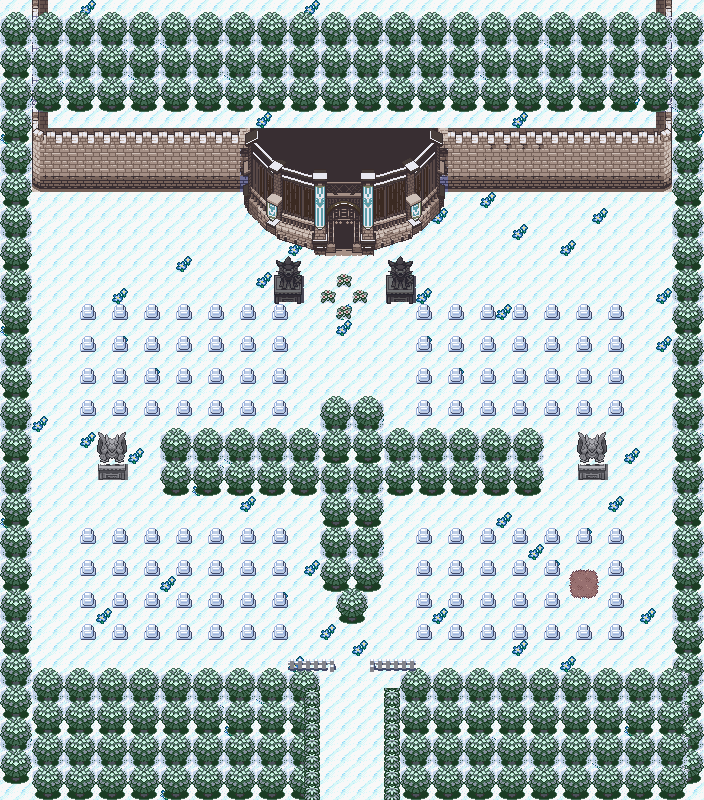
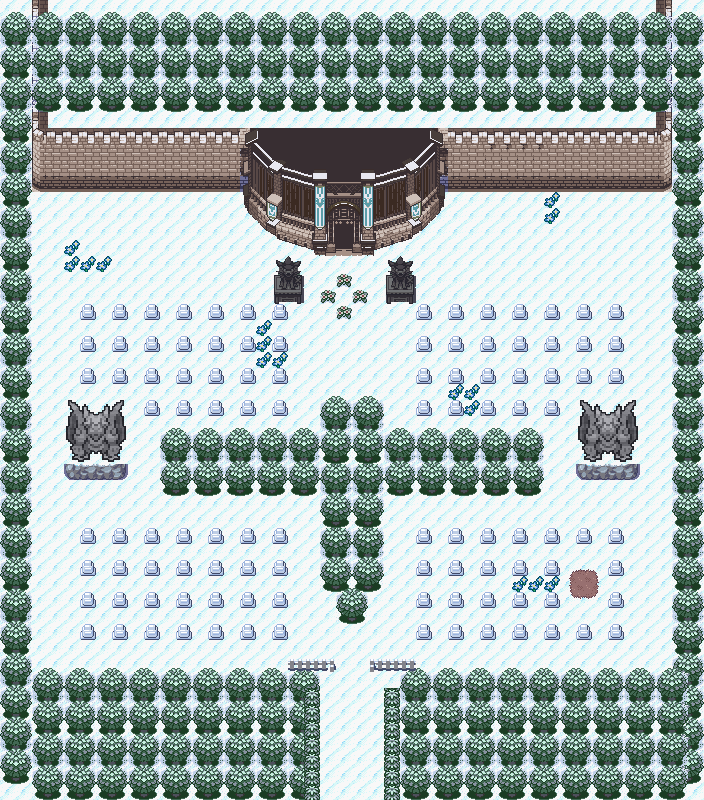
Necropolis grounds: bigger Druddighul statues on rock; flowers in clumps
The user: the flowers round the statues looked odd, distribute them naturally; no plinths, bigger statues or a natural platform. The statues at twice the size (their outline kept one pixel, the stone grain at the map's own pixel size) on a snow-capped rock outcrop; snow flowers in a few clumps well apart.

Claude-Session: https://claude.ai/code/session_01FHXnfqnedTHLf5QFbB3MCU

diff --git a/tools/art/necropolis/grounds_mock.py b/tools/art/necropolis/grounds_mock.py
@@ -83,16 +83,49 @@ def stone(img, x0=0, y0=0):
 
 def druddighul_statue(M, x0, y0):
     """A stone Druddighul (user 2026-11-21): MonoMyth's Druddighul, the decrepit dragon of the Apocryphal
-    Bastion's ruined castle (its overworld sprite, graphics 0x128, 32x32), turned to grey stone head to toe,
-    on a plinth (Crown's statue plinth, greyed). 2 x 3."""
+    Bastion's ruined castle (its overworld sprite, graphics 0x128), drawn at twice its size (user: bigger, no
+    plinth) and turned to grey stone head to toe, the stone's grain laid at the map's own pixel size so it does not
+    look blown up; it stands on a snow-capped outcrop of rock (Elderflower's rock ridge), not a plinth. 4 x 5."""
     im = np.array(Image.open(DRUDDIGHUL).convert('RGBA'))
+    im = im.repeat(2, 0).repeat(2, 1)                    # 64 x 64
     rgb, a = im[..., :3], im[..., 3] > 0
     st = stone(rgb, x0 * 16, y0 * 16)
+    # the outline (its darkest pixels on the edge of the figure) back to one pixel wide, so the doubled
+    # sprite keeps a fine line where it meets the snow
+    from scipy.ndimage import binary_erosion
+    inner = binary_erosion(a, np.ones((3, 3), bool))
+    edge = a & ~inner
+    st[edge] = (np.array([34, 34, 40]))
     blk = [[(st[dy * 16:dy * 16 + 16, dx * 16:dx * 16 + 16], a[dy * 16:dy * 16 + 16, dx * 16:dx * 16 + 16])
-            for dx in range(2)] for dy in range(2)]
-    plinth = mm.cut('c33', 22, 10, 2, 1)
-    blk.append([(stone(c[0], x0 * 16 + 16 * i, y0 * 16 + 32), c[1]) if c else None for i, c in enumerate(plinth[0])])
+            for dx in range(4)] for dy in range(4)]
     M.place(blk, x0, y0, 'statue', check=False)
+    for dx, m in enumerate((0x105, 0x106, 0x106, 0x107)):      # the outcrop it stands on
+        M.ground(x0 + dx, y0 + 4, ef(m), 'rock')
+    for dy in range(4):
+        for dx in range(4):
+            if a[dy * 16:dy * 16 + 16, dx * 16:dx * 16 + 16].any(): M.otag[y0 + dy, x0 + dx] = 'statue'
+
+def flowers(M, seed, n_clusters, avoid):
+    """Snow flowers the way they grow: a few clumps (two to five plants each, touching), in the open snow away
+    from the paths and the graves, none scattered alone."""
+    placed = 0; k = 0; seeds = []
+    free = lambda xx, yy: M.gtag[yy, xx] == 'snow' and M.otag[yy, xx] is None and (xx, yy) not in avoid
+    while placed < n_clusters and k < 2000:
+        k += 1
+        x = 3 + int(rnd(seed, 'x', k) * (W - 6)); y = 13 + int(rnd(seed, 'y', k) * (H - 20))
+        if not all(free(xx, yy) for xx, yy in ((x, y), (x + 1, y), (x - 1, y), (x, y + 1), (x, y - 1))): continue
+        if any(max(abs(x - a), abs(y - b)) < 8 for a, b in seeds): continue     # (clumps well apart)
+        seeds.append((x, y))
+        size = 2 + int(rnd(seed, 'n', k) * 4); cells = [(x, y)]
+        for j in range(12):
+            if len(cells) >= size: break
+            cx, cy = cells[int(rnd(seed, 'c', k, j) * len(cells))]
+            dx, dy = ((1, 0), (-1, 0), (0, 1), (0, -1))[int(rnd(seed, 'd', k, j) * 4)]
+            c = (cx + dx, cy + dy)
+            if c not in cells and M.gtag[c[1], c[0]] == 'snow' and M.otag[c[1], c[0]] is None and c not in avoid:
+                cells.append(c)
+        for (cx, cy) in cells: M.ground(cx, cy, ef(0xee), 'snow')
+        placed += 1
 
 def palisade(M, x0, y0):
     """The grand entrance: Crown's palisade gate (its walled capital, cells 43-55 x 5-14), charred: its timber
@@ -119,7 +152,7 @@ def palisade(M, x0, y0):
 def compose():
     M = mm.Map()
     for y in range(H):
-        for x in range(W): M.ground(x, y, v3.snow_tile(x, y), 'snow')
+        for x in range(W): M.ground(x, y, ef(0xed), 'snow')
     O = 4                                               # (everything below the fortress wall: four rows down)
     # --- the fortress wall across the top (the mountain's foot): crenels on row 8, its face, its foot on row 11;
     # the grand entrance stands out from it (its back against the wall, as in Crown), the dark within the way down
@@ -141,6 +174,8 @@ def compose():
         if y == 17: continue                            # (its head starts below the roses)
         trees(M, 20, y + O, 2, tip=(y == 21)); trees(M, 22, y + O, 2, tip=(y == 21))
     trees(M, 21, 33 + O, 1)
+    # --- a stone Druddighul either side of the cross (user: in place of the mausoleums), bigger, on rock
+    druddighul_statue(M, 4, 25); druddighul_statue(M, 36, 25)
     # --- headstones in rows in the four quarters (every other cell, as in Dreamstone Mysteries)
     for (x0, x1, y0, y1) in ((5, 17, 15, 21), (26, 38, 15, 21), (5, 17, 29, 35), (26, 38, 29, 35)):
         for y in range(y0 + O, y1 + O + 1, 2):
@@ -152,12 +187,14 @@ def compose():
     for x, y in ((21, 17), (20, 18), (22, 18), (21, 19)):
         M.place(dm([[0x4]], ancient), x, y, 'flowers', check=False)
     # --- a stone Druddighul either side of the cross (user: in place of the mausoleums)
-    druddighul_statue(M, 6, 27); druddighul_statue(M, 36, 27)
     # --- the way in at the foot: the fence, the hedges, the way down to Mirroh
     M.place(dm([[0x149, 0x149, 0x13a, None, None, 0x138, 0x149, 0x149]]), 18, 37 + O, 'fence', check=False)
     for y in range(39 + O, H):
         M.place(dm([[0xc7]], ancient), 19, y, 'hedge', check=False); M.place(dm([[0xc7]], ancient), 24, y, 'hedge', check=False)
     v3.stone_pass(M)
+    # --- snow flowers in a few natural clumps (user: the scattered ones looked odd)
+    paths = {(x, y) for x in range(19, 25) for y in range(12, H)}
+    flowers(M, 'fl', 10, paths)
     for x in (20, 21, 22, 23): M.gtag[H - 1, x] = 'warp'
     return M
 

diff --git a/bible/20_chapter1_build.md b/bible/20_chapter1_build.md
@@ -183,7 +183,7 @@ Chapter 1 is the template: once its foundations (mechanics, maps, buildings, NPC
 - **Route 11 and Hollow Hill: layouts approved (user 2026-11-20).** **Route 11** (45x30, west from Pelluca's west road): Pelluca's pines and cobble road carry on at the east end (the seam to Pelluca uses Pelluca's own Cormoria tiles), farmland in the middle (a thatched farmhouse with a fenced yard, cabbage rows, a sown field, hay; fenced flower rows and tall grass south of the road), tan cliffs stepping down along the north, a cliff-flanked little cove on the south coast, and at the west end the road becomes a dirt track into cooler dark woods running on into Hollow Hill (the Eiscue scene on that track). Art: Crown's seaside farm village (3.1) and dark woods (3.25), Odyssey's farm (0.232); Pisces' Brumist Cliffs / Zotpyre Village (snowy in the ROM) and Odyssey's terraced hill as layout ideas. **Hollow Hill** (about 50x50; **its theme (approved by the user 2026-11-20, "perfect"):** Ghost Grey's Route 1 theme re-arranged as `MUS_DR_HOLLOW_HILL` by `tools/music/arrange_hollow_hill.py`: slowed from 124 to 64 bpm, on the soft pedal piano, no percussion, with a ghostly far-off voice echoing the tune (a sine tone first, heard as beeps: replaced) (wind was tried and taken out: it came across as static) in the bars where the song falls quiet; credit Ghost Grey): woods rising in three rings, each a cliff step up, to a central rock knoll; the path in from Route 11 climbs the rings by stairs to **the sealed tunnel door** at the knoll's foot; the north exit to Mirroh leaves from the outer ring (Glaive there); the Eiscue and the 1v2 on the outer ring; **very foggy, with a generally spooky, unsettling feeling** (user 2026-11-20). **The summit is late-game** (unlocked only with Valkeerin/Keerin in the party; the trip to the distant future and the Red fight happen there; 19_location_atlas.md). **Hollow Hill will be revisited and added to over the whole game** (many secrets, met in pieces): its layout and its tileset keep room for more (hidden burrow mouths placed now as scenery that can later open, the summit area behind the sealed door, spare palette and tile room in its tileset). **Revision (user 2026-11-20, after the first mock):** Route 11 is **about twice as long (about 90x30)**; the **Ivy River's thin western branch** (as on the illustrated region map, coming down from the north past the Necropolis just west of Pelluca) **crosses Route 11 near its Pelluca end and runs down to the beach and the sea; the road crosses it on a bridge**; the **grass shifts gradually** from Pelluca's light mint to the darker temperate greens of Hollow Hill's woods (shades reaching into each other in patches, as MonoMyth's and Crown's route boundaries do; tree kinds mixing before they change). Design rule: no tree or object ever cut, stacked into another or bleeding into buildings, cliffs or water (docs/chapter1_workflow.md). **Mock v2 (2026-11-20):** the river drops through a chasm in three falls (the middle one under the bridge), over the coastal cliff into a rock pool, and a stream bends west over the sand to the sea; the beach is a cove between cliff walls, split by the stream. **Steps down to the west beach (user 2026-11-20)** are cut into the coastal cliff just west of the bridge (stone stairs, two wide: Pelluca's own stair tiles, as in its sea wall): the beach holds **at least one trainer**, and more may go there later. The east beach (between the stream and Pelluca's pines) has no way down yet: **revisit later (user 2026-11-20).** **Built (2026-11-20):** `MAP_ROUTE11` (layout 90x40: five rows of woods, the chasm and the sea added above and below the approved picture, out of the player's reach, so the camera never shows past the edge), connected to Pelluca's west road (Route 11's road rows 19-21 = Pelluca's 28-30). Its own secondary tileset (`gTileset_Route11`, 7 palettes: grass, broadleaf woods, farm, cottage and hay, bridge, cliffs, river and pines on sage) under Pelluca's primary; Pelluca's own metatiles wherever a cell is one. Crowns of trees are walked behind; tall grass is tall grass (no encounter table yet: stage 5); the river in the chasm is solid, the stream and the sea need Surf. **Story gate (provisional):** stepping onto Pelluca's west edge is stopped with Osrid's line ("Cadmus told me to meet him at the church..." after the blast, a general line before it) until the shrine is awakened; stage 4 sets the real condition. **Music (user 2026-11-20):** MonoMyth's Route 15 theme (`MUS_DR_MM_ROUTE15`): a classic Pokémon route theme, reworked, a bright contrast before spooky Hollow Hill. Credit: MonoMyth (its music). **Pelluca Valley's main theme (user 2026-11-20):** Pokémon Crown's route theme (its song 292, `MUS_DR_CROWN_PELLUCA`), replacing Lilycove's, **in the piano version the user chose** (`MUS_DR_CROWN_PELLUCA_PIANO`: our pedal piano for its guitar, harp, clarinet and flute, standalone; the original as ported was removed, user: the remix is better). Credit: Pokémon Crown (its music). **Cold-open music (user 2026-11-20):** MonoMyth's "A Legend Unfolds" (`MUS_DR_LEGEND_UNFOLDS`; in MonoMyth it plays when Fabrizia's museum in North Edelweiss tells the legend of Athanto's Pokémon) plays from Tenebris's notes through Cadmus's letter until Osrid docks in Pelluca, replacing "Far Horizons". Credit: MonoMyth (its music). **Loops checked in the game (2026-11-20):** Pelluca's theme, Route 11's, the cold open's and Hollow Hill's each play through their loop point and come back in step with their loop start (every track loops at the same point). **Sound engine (2026-11-20):** 12 sampled voices instead of 5, as MonoMyth uses (the songs from MonoMyth and Crown play up to 10-12 notes at once; with 5 they cut each other off). **Hollow Hill mock v3 (user 2026-11-20: "quite good"):** `tools/art/hollowhill/hh_mock.py`, renders in `assets/hollowhill_reference/`. Art: Pokémon Odyssey's haunted forest (its maps 0.94/0.95/0.97: teal floor, dark pines, dead trees, stumps, logs, red mushrooms, dark tall grass, burrow hollows, grey stone terraces and stairs, the sealed blue door); credit Odyssey. Layout 66x64 (the hill about 40x37; the extra width is the east edge, where Route 11's olive ground and Crown woods darken and mix into the teal and the pines over about ten columns; Route 11's row = Hollow Hill's row - 24, its track on rows 43-45). Ring edges drawn by Odyssey's own terrace grammar, two bands per ring, three for the knoll. **The way through (user 2026-11-20):** the woods floor is closed into sections by trees running up to the cliffs (north-west corner, north, east, south), and ring 2 reaches out west and east to ring 1's edge, cutting ring 1 into a north and a south half, so **the player can never go round the hill: from Route 11 up ring 1, up ring 2 (the sealed door, or over), down the north side to the north woods and the exit to Mirroh.** Eight stairs, four per ring (south faces, and north edges with the steps drawn down-facing) link the sections: the clearing (Eiscue, the 1v2) is its own section with its own stairs; the north-east woods are a dead-end pocket (room for an item or a secret). The mock checks this each run: with ring 2's stairs closed the north is out of reach; with ring 1's closed the woods sections do not join. The void pits with red eyes were dropped (they read as ponds). **Later (user 2026-11-20):** Hollow Hill keeps being worked on through the game, e.g. **a cool ruined structure on the top**, since it truly is an ancient and arguably cursed place. **Colours (user 2026-11-20):** the woods and their floor an **off-white, creepy bone** (Odyssey's pines, floor and tall grass recoloured one for one), the cliffs a **sinister stone, dark and light mixed** (near-black violet shade, charcoal faces, bone-pale lit edges), so Hollow Hill stands out even in the fog; trunks, red mushrooms and the sealed door's cold blue kept. At the east edge Route 11's green woods pale toward bone over three columns of trees (`hh_mock.py` BONE, tint). **Built (2026-11-20):** `MAP_HOLLOW_HILL` (layout 66x64; `tools/art/hollowhill/build_hollowhill.py` from `hh_mock.py`, mock v8), connected to Route 11's west edge (Hollow Hill's row = Route 11's + 24; the track on rows 43-45). **The seam:** Hollow Hill's columns 58-65 are Route 11's own columns 1-8 (the same blocks; its woods' pattern carried up above Route 11's top), and its tileset (`gTileset_HollowHill`, under Pelluca's primary) keeps Route 11's 24 seam metatiles, their 69 tiles and its two palettes (grass, broadleaf woods: slots 6-7) at the same ids, numbers and slots, so each map draws the other's edge right. Its own: 208 metatiles, 437 tiles, 5 palettes (floor, pines and wood, stone and blood, Crown's woods paled, the door and mushrooms). **The tiles are nearly full** (4 of 512 spare): the webs and the blood are built as repeating pieces (a few drip and blot patterns, one garland per spacing of trees) to fit; later additions (the ruins on top, burrows that open) are best as their own maps behind the sealed door and the burrows, or by trimming the webs/the olive-to-bone shades. Cliffs solid, stairs walkable, tree crowns walked behind, webs drawn over the player, the dark tufts are tall grass (no encounter table yet: stage 5). Weather `WEATHER_FOG_HORIZONTAL`, **thinned for Hollow Hill** (src/field_weather_effect.c: 6/16 over 13/16 instead of 12/16 over 8/16, so the bone woods are not washed out; other foggy maps unchanged); music `MUS_DR_HOLLOW_HILL`; `MAPSEC_DR_HOLLOW_HILL`. The way north runs off the top edge (the Mirroh area is next; no connection yet). Walked in the emulator from Route 11 up both rings, to the door, down the north side to the way north, and to the clearing. **The Hollow Hill guardian (user 2026-11-20; a special quest later in the game):** the personification of the haunted energy that has gathered round Hollow Hill for many years, so strong it **reanimated the dead body of an Araquanid as its vessel**: a custom **undead Araquanid**, a blood bubble for its water bubble, a skull-like face, skeletal limbs and body. Still **Water/Bug**, ability **Water Bubble**; about **level 65**; exceptionally strong: starts the fight at **+1 Attack, Defense, Special Defense and Speed**. It holds the **Reaver's Fang**, which the player gets by defeating it. **Reaver's Fang (held item; user 2026-11-20):** (1) the holder heals **25% of the physical or special damage it deals**; (2) when an enemy's physical or special attack damages the holder, the holder **heals 25% of that damage and the same amount is dealt back to the attacker**; (3) recoil the holder inflicts on itself is lifestolen at 25% too (user, first description; no attacker to hit back). **One of the strongest held items in the game**, which is why it **cannot be had until after midgame** (the guardian's quest is post-midgame). The blood webs across Hollow Hill are signs of its power over the woods. **Not catchable** (user 2026-11-20): it is only cursed energy possessing and working the corpse of a dead Pokémon. **Art:** the user will help make the base art for the assistant to modify further, and may let the assistant try the design when the time comes. OPEN: a new form with its own stats or Araquanid with the boosts; the quest. **Unsettling throughout (user 2026-11-20):** the pines' bone shades go to a **sinister grey** in their depths; **blood-like stains** run down the cliffs from their tops and soak into the stone in blots (more round the sealed door); **Blood-red webbing in MonoMyth's Webbed Woods style, hung across the trees** (user 2026-11-20: a web on each tree looked strange; hang them across more of the trees, more naturally; webs on actual groups of trees, never in the open): sheets of web sag from tree to tree along the woods' edges (the north and south treelines, garlands from each crown to the next at about the same height, two or three threads deep, laced by MonoMyth's zig-zags, torn threads trailing), bulge out from tree to tree down the west woods' side and the trees closing the way east, link pines standing near each other or near a woods' edge (the pair on ring 1), MonoMyth's big sagging net across the narrow way north, small round webs only in the dead tree's branches and in the V between the trees closing the way south. Drawn a pixel at a time in the webbing's two colours (MonoMyth's, made old-blood red); the net is MonoMyth's (`web_net.png`, 0x886DD5C). Credit MonoMyth. **The blood webs mean something (user 2026-11-20):** they are signs of the **Hollow Hill guardian's** power over the woods (below).
 - **Mirroh (user 2026-11-20/21; zone plan v2, `tools/art/mirroh/layout_sketch.py`, `assets/mirroh_reference/`).** Where Crown's medieval architecture really starts. **A mix of a Crown village and MonoMyth's Fort Elderflower** (user): a **walled city climbing the slope** of the massif in three terraces (Elderflower's crenellated terrace walls that jog with the slope, stone stairs staggered so the way winds up), Crown's timber and thatch cottages with fenced gardens below. **Light snow in the lower town, deeper uphill. Gothic, gloomy and wintry:** roofs recoloured to dark slate, iron lanterns, Crown's dragon statues darkened to gargoyles, banners in House Langerin's colours, a graveyard. **Ghost Grey's Opal Village** (user: loves its reflecting ice; study its landscape and indoor/outdoor tiles): sheets of **reflecting ice** sunk in brick rims (one in the square, one in the lower town), **dark icy streets with sparkles**, snowbanks held by brick retaining walls; its houses and museum halls for the interiors (greyscale: to be coloured). Zones: outside the **south gate** Hollow Hill's bone woods carry on (the seam), thinning to snowy pines; **lower town** (cottages, gardens, ice sheet); **middle terrace**, the square (the **Tavern**, like Pelluca's, **recoloured to the dark slate look**, user; a market hall, stalls, the ice sheet); **upper terrace** (deep snow): a gothic chapel and its graveyard (the seed of DM's Mirroh Base Camp graveyard), **House Langerin's town house** (user: yes). **Two ways out north (user):** a **north-west path** further north out of town, and a **separate north-east path to the Necropolis** (its own map uphill). **Gatehouses (user 2026-11-21):** Mirroh is guarded: people may not come and go as they please. **Two walk-through gatehouse buildings with guards** (enter one side, pass the guards inside, leave by the other; interior maps): the **south gatehouse** between Hollow Hill and the city proper, and the **north-west gatehouse** on the route toward the mountain, the Templar HQ and beyond. The **north-east path to the Necropolis is open** (no gate; the Necropolis keeps its own entrance). **Plan approved by the user ("basically perfect").** **Gates, decided (user 2026-11-21):** the **south and north-west gatehouses are roofed gatehouse buildings** in the style of Ghost Grey's and Crown's walk-through gates (slate roof behind the crenels, a stone front with banners, a portcullis door between lanterns, round towers either side; Crown's castle gate restoned in Elderflower's stone). The south one's far door, on the city side, is **a short flight of steps up from the gatehouse** (the city is uphill; user: "yes"). Their **hallway maps** follow North Edelweiss's gate hallway (MonoMyth): a dark doorway at the top, a crimson runner, guard desks facing each other, benches and plants, the mat at the foot, in Mirroh's cold stone (`tools/art/mirroh/gate_hall.py`). **The north-east way to the Necropolis is a standalone skull gate** (user's idea: Elderflower's skull keep door, "rebuilt as a standalone gate with a new top"): the skull arch under a crenellated walk between two round towers capped with the gothic spires of Crown's cathedral; no guards; you walk through the dark arch onto the Necropolis map. **Revised (user 2026-11-21):** both gatehouses take **the towered style** (option B: three-wide round towers a row taller than the gate, capped with the Necropolis gate's spires; no steps and no mat (a mat against the roof read wrong): the south one's far door is where the city's cobbled lane runs into its back), and **between the towers the real roof of Crown's cathedral** (its metal-sheet roof as it runs back between the cathedral's spired towers, cut out and widened at mid-slope), **in copper**, over Crown's gate core (pillar, lantern, portcullis, lantern, pillar, two banners); 14 wide (user: no roof at all looked strange; a drawn roof did not look like a natural part of the gate). **No way round (user 2026-11-21: players must not sneak past Mirroh):** the three columns either side of the walls, from the top of the map to the city wall's foot, are closed by the massif's pinewood and rock (big and small pines, snow-buried rocks, rock ridges; every cell solid), and the **city's north wall** runs along the top from wall to wall, broken only by the north-west gatehouse and the Necropolis gate. The mock checks it: from Hollow Hill nothing is reachable past the south gatehouse, and from inside the city the top edge is reachable only through the gates. **Snow and stone (user 2026-11-21: more fluid and natural, not big blocks of snow):** on the paved terraces the snow lies in ragged drifts of every size (smooth noise at two scales, a little deeper toward the walls), swept clear along the ways people walk (stairs, doors, gates), and the paving round the drifts is **dusted** (a few pieces of paving with snow specks, thicker next to the drifts, thinning out), so the drifts fade into the stone; deeper on the sacred terrace. The ice sits in rounded, uneven pools, the snow drifting straight onto it; the lower town's cobbled lanes wander and vary in width. **The fortress stone (user 2026-11-21):** every wall, tower, parapet, stair and both gatehouses (and the Necropolis gate) in **one copper-shaded stone**, a cold grey warmed toward copper, to go with the copper roofs (`cstone`, mapped by lightness from Elderflower's stone; the snow on the crenels and the dark slate paving kept); the gatehouse roof runs in behind its towers (no gap at its sides). **Copper is Mirroh's main colour and House Langerin's crest's** (user): used as the contrast to the dark slate and the snow wherever it makes sense: the gatehouse roofs, the banners (Crown's purple ones in copper), the chapel's roof (Crown's verdigris roof in copper, a little green left in its seams), House Langerin's town house roof, the hallway runners and mats (copper rather than red: red is generic). **Mock v3 (2026-11-21, `tools/art/mirroh/mirroh_v3.py`):** the city as Elderflower-style terraces drawn from a level map (each terrace narrower than the one below, its own crenellated front wall with round-tower ends, parapets down its sides, its paving shaded under them), snow lying on the paving in drifts, the reflecting ice set in snowy yards (the snow drifting onto the ice, no rim), cobbled lanes in the lower town; every borrowed building cut out of its source cleanly (only the source's true ground removed).
 - **Chapter 1 asset references (user 2026-11-19), for later: nothing built yet.** **Permissions and credits (user 2026-11-19):** Pokémon Crown (Blah and the Crown team) and Pokémon Ghost Grey Version EX (JoeyZeed) are used with permission; credit them in the notes alongside MonoMyth, Pokémon Odyssey and the Pokémon Rejuvenation team. Sources earmarked while surveying Pokémon Crown (FireRed hack by Blah and the Crown team; `tools/crown/README.md`, renders in `assets/crown_reference/`), MonoMyth, Dreamstone Mysteries and Rejuvenation:
-  - **Mirroh Necropolis, plan (user 2026-11-21):** **the grounds and two catacomb floors.** The grounds (its own map, reached through Mirroh's skull gate): a walled cemetery on the slope above the city, the grand entrance down into the catacombs at its head. **Floor 1: Dale Langerin. Floor 2: Gram Langerin.** Then **the Trial: the frozen underground lake of the dead** (user): an ice-sliding puzzle in the manner of **Ghost Grey's Heater Forest** (user: sliding ice, not cracking ice; step onto the ice and you slide until a boulder, a wall or a patch of snow or stone stops you; `tools/ghostgrey/README.md`) across the lake to **light four spectral bonfires**; **each bonfire is guarded by a necromancer trainer**, so the player fights **four trainers** at the bonfires; with all four lit **the way to Kimaris opens**, and he waits in the Trial chamber beyond. The Distortion gate's room lies sealed deeper still (late game). **The grounds (user 2026-11-21): an expanded version of Dreamstone Mysteries' graveyard in modern Mirroh** (LAYOUT_MIRROH_BASE_CAMP_GRAVEYARD) with the rest of the plan: its round snowy trees closing it in, the great cross of trees in its middle, headstones in rows in its four quarters, winter roses at its head, an open grave, the way in at its foot between hedges and a fence (from Mirroh's skull gate); added: the grand entrance (Crown's palisade gate, charred, its lanterns a cold ghost flame, the dark within it the way down) standing out from a fortress wall of the copper-shaded stone, gargoyles before it, **a stone Druddighul at each end of the cross** (user 2026-11-21, in place of the mausoleums: MonoMyth's Druddighul, Druddigon's Ghost/Dragon evolution, the decrepit dragon that attacks you on top of the ruined castle of the Apocryphal Bastion deep in the Webbed Woods; its overworld sprite, MonoMyth graphics 0x128, 32x32, `tools/monomyth/mm_bigsprites.py`, `assets/monomyth_reference/pieces/druddighul_ow.png`, turned to grey stone head to toe on a plinth; credit MonoMyth); no lamps (user). Mock v1: `tools/art/necropolis/grounds_mock.py`, 44x50, renders in `assets/necropolis_reference/`. **Surface look (assumed, user did not choose; to confirm):** Mirroh's family but darker and older: deeper snow, the same copper-shaded stone walls aged darker, dead trees and black iron, copper roofs gone green, fog.
+  - **Mirroh Necropolis, plan (user 2026-11-21):** **the grounds and two catacomb floors.** The grounds (its own map, reached through Mirroh's skull gate): a walled cemetery on the slope above the city, the grand entrance down into the catacombs at its head. **Floor 1: Dale Langerin. Floor 2: Gram Langerin.** Then **the Trial: the frozen underground lake of the dead** (user): an ice-sliding puzzle in the manner of **Ghost Grey's Heater Forest** (user: sliding ice, not cracking ice; step onto the ice and you slide until a boulder, a wall or a patch of snow or stone stops you; `tools/ghostgrey/README.md`) across the lake to **light four spectral bonfires**; **each bonfire is guarded by a necromancer trainer**, so the player fights **four trainers** at the bonfires; with all four lit **the way to Kimaris opens**, and he waits in the Trial chamber beyond. The Distortion gate's room lies sealed deeper still (late game). **The grounds (user 2026-11-21): an expanded version of Dreamstone Mysteries' graveyard in modern Mirroh** (LAYOUT_MIRROH_BASE_CAMP_GRAVEYARD) with the rest of the plan: its round snowy trees closing it in, the great cross of trees in its middle, headstones in rows in its four quarters, winter roses at its head, an open grave, the way in at its foot between hedges and a fence (from Mirroh's skull gate); added: the grand entrance (Crown's palisade gate, charred, its lanterns a cold ghost flame, the dark within it the way down) standing out from a fortress wall of the copper-shaded stone, gargoyles before it, **a stone Druddighul at each end of the cross** (user 2026-11-21, in place of the mausoleums: MonoMyth's Druddighul, Druddigon's Ghost/Dragon evolution, the decrepit dragon that attacks you on top of the ruined castle of the Apocryphal Bastion deep in the Webbed Woods; its overworld sprite, MonoMyth graphics 0x128, 32x32, `tools/monomyth/mm_bigsprites.py`, `assets/monomyth_reference/pieces/druddighul_ow.png`, turned to grey stone head to toe; **twice its size, no plinth: it stands on a snow-capped outcrop of rock** (user), credit MonoMyth); no lamps (user); the snow flowers in a few natural clumps well apart, none scattered alone (user). Mock v1: `tools/art/necropolis/grounds_mock.py`, 44x50, renders in `assets/necropolis_reference/`. **Surface look (assumed, user did not choose; to confirm):** Mirroh's family but darker and older: deeper snow, the same copper-shaded stone walls aged darker, dead trees and black iron, copper roofs gone green, fog.
   - **Mirroh Necropolis entrance:** Crown's curved palisade gate (walled capital, map group 3 #3, cells x43-54 y5-13), recoloured sinister (slate stone, charred wood, tarnished bronze arch, spectral banners) with graveyard/gothic ornament, as the grand entrance down into the catacombs (user). Catacomb levels: Crown's underground stone halls (group 6 #8: tiered walls, cobwebs, pillars, plank bridges over a chasm, a sealed chamber) and its sewer (group 7 #11), recoloured. Graves: DM's Mirroh Base Camp Graveyard headstones (metatile 0x3A5 in LAYOUT_MIRROH_BASE_CAMP_GRAVEYARD) and MonoMyth Speedwell's wooden cross markers (metatiles 0x39, 0xA6); dead stumps from MonoMyth's Haunted Swamp; Crown's cobwebs; Rejuvenation's iron candle stands with ghost-coloured flames; Crown's dragon statues darkened into gargoyles. **Underground catacombs (user, primary reference):** Pokémon Ghost Grey Version EX's Lavender Town catacombs (by JoeyZeed; `tools/ghostgrey/README.md`, renders in `assets/ghostgrey_reference/`): six chambers with grave niches, demon-face reliefs and chasm crossings, ending in a pillared chamber with a sealed gate (the Distortion gate's room). They are greyscale and need a proper palette.
   - **Templar Headquarters ("Templar Citadel", Mt. Mirroh):** Crown's gothic cathedral on its moat island with timber chalets (group 3 #2), with an alpine/snow treatment and perhaps an outer wall.
   - **Academy:** MonoMyth's Ironbark Cabin (0x886B35C main hall + rooms) cleaned up (user: it looks dingy now): no boarded windows, moss or broken doors. **For the rooms (user 2026-11-19): MonoMyth's clown academy in Cascade City** (0x8868EF4 / 0x886AEE0): two classrooms (green chalkboard with writing, curtained windows, rows of desks), a music room (piano, music stand), a lounge, a lobby counter; modern tiled floors, so its furniture would be lifted onto our wood. Crown's classroom (group 5 #2: blackboard, desk rows, red runner) for the classroom.
